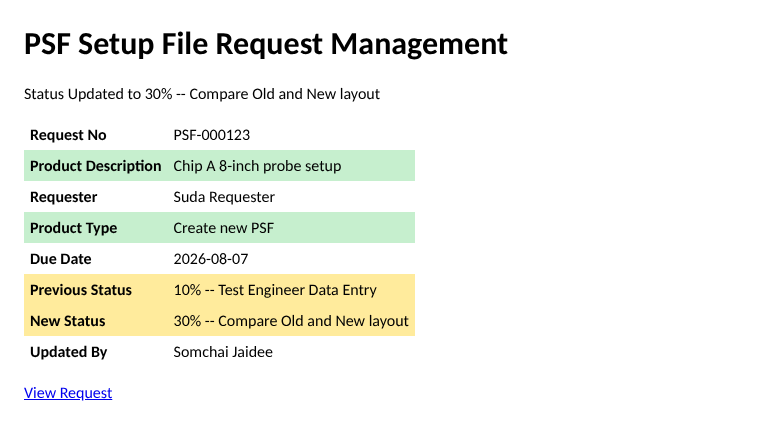
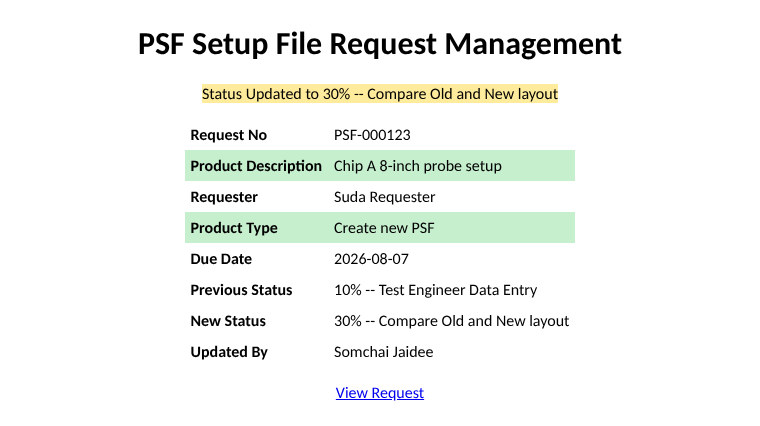
Centre the request email and highlight its status update line
Fook's second review of #109: the yellow highlight belongs on the
status update line at the top ("Status Updated to ..."), not the
Previous/New Status rows, and everything except the data inside the
table is centred. Row labels stay left-aligned.

Claude-Session: https://claude.ai/code/session_01P3AzdEQQY4TPsYwMoU7j7R

diff --git a/backend/src/notifications/mail.spec.ts b/backend/src/notifications/mail.spec.ts
@@ -408,20 +408,34 @@ describe('mail safety and SOAP', () => {
     ]);
   });
 
-  it('highlights the status update, Previous Status and New Status, in yellow', () => {
+  it('centres everything except the data inside the table', () => {
+    const { html } = renderRequestEmail(
+      statusChange({ bulkReplacement: true }),
+      importedFormRequest(),
+      'http://localhost:3000',
+    );
+    const blocks = [...html.matchAll(/<(h1|p)( [^>]*)?>/g)];
+    expect(blocks.map(([, tag]) => tag)).toEqual(['h1', 'p', 'p', 'p']);
+    for (const [, , attributes = ''] of blocks)
+      expect(attributes).toContain('text-align:center');
+    expect(html).toMatch(/<table[^>]* align="center"/);
+    for (const { labelStyle, valueStyle } of cells(html))
+      expect(`${labelStyle}${valueStyle}`).not.toContain('center');
+  });
+
+  it('highlights the status update line at the top in yellow, not the status rows', () => {
     const { html } = renderRequestEmail(
       statusChange(),
       importedFormRequest(),
       'http://localhost:3000',
     );
-    const yellow = cells(html).filter(
-      ({ labelStyle, valueStyle }) =>
-        labelStyle.includes('background-color:#FFEB9C') &&
-        valueStyle.includes('background-color:#FFEB9C'),
+    expect(html).toMatch(
+      /<span style="[^"]*background-color:#FFEB9C[^"]*">Status Updated to 30% -- Compare Old and New layout<\/span>/,
     );
-    expect(yellow.map(({ label, value }) => [label, value])).toEqual([
-      ['Previous Status', '10% -- Test Engineer Data Entry'],
-      ['New Status', '30% -- Compare Old and New layout'],
-    ]);
+    expect(
+      cells(html).filter(({ labelStyle, valueStyle }) =>
+        `${labelStyle}${valueStyle}`.includes('#FFEB9C'),
+      ),
+    ).toEqual([]);
   });
 });

diff --git a/backend/src/notifications/notification.template.ts b/backend/src/notifications/notification.template.ts
@@ -77,8 +77,8 @@ export function renderRequestEmail(
       GREEN,
     ],
     ['Due Date', valueFor('due_date')],
-    ['Previous Status', event.fromStatus, YELLOW],
-    ['New Status', event.targetStatus.name, YELLOW],
+    ['Previous Status', event.fromStatus],
+    ['New Status', event.targetStatus.name],
     ['Updated By', event.actor.displayName],
   ];
   const summary = fields
@@ -91,7 +91,8 @@ export function renderRequestEmail(
     })
     .join('');
   const link = `${baseUrl}/requests/${encodeURIComponent(event.requestId)}`;
-  const html = `<h1>PSF Setup File Request Management</h1><p>${escapeHtml(action)}</p><table cellspacing="0" cellpadding="6">${summary}</table>${event.bulkReplacement ? '<p>Status updated by bulk replacement.</p>' : ''}<p><a href="${escapeHtml(link)}">View Request</a></p>`;
+  const center = 'style="text-align:center"';
+  const html = `<h1 ${center}>PSF Setup File Request Management</h1><p ${center}><span style="background-color:${YELLOW}">${escapeHtml(action)}</span></p><table align="center" cellspacing="0" cellpadding="6">${summary}</table>${event.bulkReplacement ? `<p ${center}>Status updated by bulk replacement.</p>` : ''}<p ${center}><a href="${escapeHtml(link)}">View Request</a></p>`;
   return { subject, html };
 }
 

diff --git a/docs/email-notifications.md b/docs/email-notifications.md
@@ -55,9 +55,9 @@ Policy settings are admin-only. Public status responses omit recipient settings,
 
 Bulk replacement uses a separate **Replace and delete status** modal displaying the destination's recipients, affected request count and any visibility-trigger replacement. It does not change requests until explicitly confirmed. Policy changes affect future events; existing jobs keep their original recipient, subject, body, request number and source/destination status snapshots. Turning a policy off does not cancel already-pending jobs.
 
-From is always **`noreply-psf@nxp.com`**. A request email (New Request, Status change, Completed, Cancelled) shows one row each for Request No, Product Description (the canonical `title`), Requester, Product Type, Due Date, Previous Status, New Status and Updated By. Product Type is shortened as in the request tables, so `Create new PSF (Require PCSF , E142 or .DPL)` shows as `Create new PSF`; a value the tables do not recognise is shown as stored. Updated By is the actor's display name only. Row labels are left-aligned; Product Description and Product Type have a green fill (`#C6EFCE`) and Previous Status and New Status a yellow fill (`#FFEB9C`), set with inline styles and table attributes because Outlook ignores `<style>` blocks. Request emails never include PSF Created Information, so PSF Setup File Name and Job File Name are not shown. The View Request link uses `APP_BASE_URL`; the existing frontend login redirect preserves the destination URL. Source: [request email template](../backend/src/notifications/notification.template.ts).
+From is always **`noreply-psf@nxp.com`**. A request email (New Request, Status change, Completed, Cancelled) shows one row each for Request No, Product Description (the canonical `title`), Requester, Product Type, Due Date, Previous Status, New Status and Updated By. Product Type is shortened as in the request tables, so `Create new PSF (Require PCSF , E142 or .DPL)` shows as `Create new PSF`; a value the tables do not recognise is shown as stored. Updated By is the actor's display name only. The heading, the status update line under it ("New Request", "Status Updated to …", "Completed" or "Cancelled"), the table and the View Request link are centred, while the data inside the table stays left-aligned with left-aligned row labels. The status update line has a yellow highlight (`#FFEB9C`) and the Product Description and Product Type rows a green fill (`#C6EFCE`), set with inline styles and table attributes because Outlook ignores `<style>` blocks. Request emails never include PSF Created Information, so PSF Setup File Name and Job File Name are not shown. The View Request link uses `APP_BASE_URL`; the existing frontend login redirect preserves the destination URL. Source: [request email template](../backend/src/notifications/notification.template.ts).
 
-Since 22 October 2026 the Priority and Reason / Remarks rows are gone, even for a form that still has such a field such as the built-in seed form (the Initial Data Load forms have neither, so there they always read "-" or never appeared), the Title row is headed Product Description, Product Type is shortened, Updated By no longer appends the role code such as `(setup_owner)`, and the left-aligned labels and the green and yellow fills were added. Jobs already in `email_outbox` keep the body they were queued with; only emails queued afterwards change. The Draft reminder email is unchanged.
+Since 22 October 2026 the Priority and Reason / Remarks rows are gone, even for a form that still has such a field such as the built-in seed form (the Initial Data Load forms have neither, so there they always read "-" or never appeared), the Title row is headed Product Description, Product Type is shortened, Updated By no longer appends the role code such as `(setup_owner)`, and the centred layout, left-aligned row labels, yellow status update line and green rows were added. Jobs already in `email_outbox` keep the body they were queued with; only emails queued afterwards change. The Draft reminder email is unchanged.
 
 ## Queue and delivery
 

diff --git a/docs/current-implementation.md b/docs/current-implementation.md
@@ -5,7 +5,7 @@ The dated updates below include subsequent changes to that baseline.
 See [main documentation alignment and evidence availability](verification/2026-10-06-main-documentation-alignment.md)
 for the scope of this review.
 
-> **Request email summary, 22 October 2026:** request emails (New Request, Status change, Completed, Cancelled) follow the current form and request tables. The Priority row and the cancellation-only Reason / Remarks row are removed for every form (the Initial Data Load forms have neither field; the built-in seed form's Priority is no longer emailed either), Title is headed Product Description, Product Type is shortened as in the tables (`Create new PSF` rather than `Create new PSF (Require PCSF , E142 or .DPL)`; unrecognised values are shown as stored), and Updated By shows only the actor's display name instead of `Name (role)`. Row labels are left-aligned, Product Description and Product Type are filled green and Previous Status and New Status yellow, using inline styles for Outlook. Values were already current when queued; emails already in the outbox keep their queued body. The Draft reminder email is unchanged. See [email notifications](email-notifications.md#trigger-rules). Checked with unit tests and the in-memory notification database suite; no mail was sent.
+> **Request email summary, 22 October 2026:** request emails (New Request, Status change, Completed, Cancelled) follow the current form and request tables. The Priority row and the cancellation-only Reason / Remarks row are removed for every form (the Initial Data Load forms have neither field; the built-in seed form's Priority is no longer emailed either), Title is headed Product Description, Product Type is shortened as in the tables (`Create new PSF` rather than `Create new PSF (Require PCSF , E142 or .DPL)`; unrecognised values are shown as stored), and Updated By shows only the actor's display name instead of `Name (role)`. Everything outside the table's data is centred, row labels are left-aligned, the status update line ("Status Updated to …") is highlighted yellow and Product Description and Product Type are filled green, using inline styles for Outlook. Values were already current when queued; emails already in the outbox keep their queued body. The Draft reminder email is unchanged. See [email notifications](email-notifications.md#trigger-rules). Checked with unit tests and the in-memory notification database suite; no mail was sent.
 
 > **Workflow catalog updates left out of Audit History, 22 October 2026:** the Audit History page no longer lists entries with the action "Workflow catalog updated", and its Action filter no longer offers that action (issue #106). `GET /api/audit-logs` leaves them out of both the rows and the total for every role, even when the action filter asks for them. Before, each such entry had a "View changes" toggle that listed the raw catalog operation, the whole Status catalog before and after, and "Requester PSF access released for N request(s)"; it was hard to read and widened the Detail column when opened. Status Management changes are still recorded in `psf_request_audit_logs` with the same metadata, so they can be read from the database or shown again later. A PSF Visibility Release made by enabling a trigger in Edit status for requests already at that status is recorded only in such an entry, so no page shows that release now. Bulk Status replacement entries belong to each request and stay listed with "View changes". See the [verification record](verification/2026-10-22-catalog-entries-hidden.md). Checks ran in Chromium against a throwaway local database.
 
